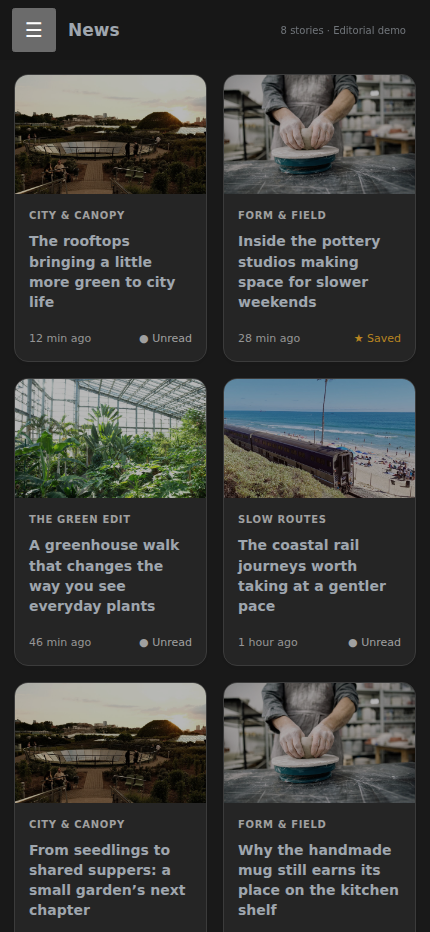
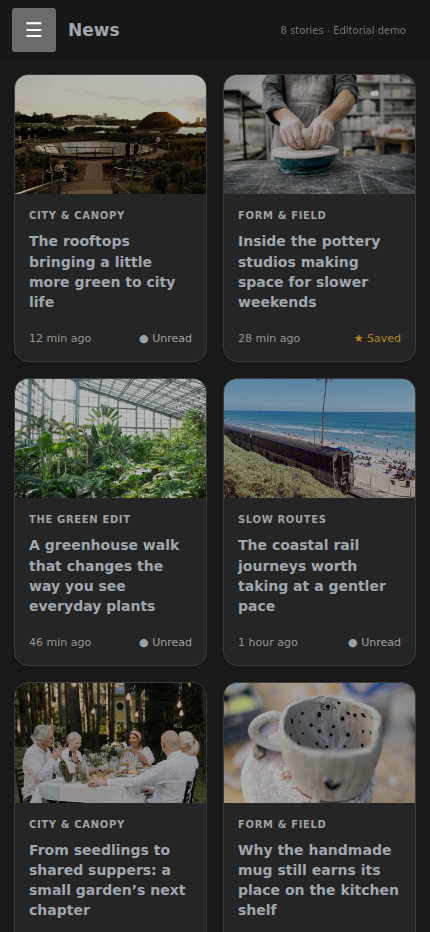
Give all eight demo cards distinct credited photos

Changed region(s): [[0.514, 0.7157, 0.9674, 0.8712], [0.0302, 0.7157, 0.4837, 0.8712]]

diff --git a/tests/browser.py b/tests/browser.py
@@ -428,9 +428,10 @@ try:
                 break
             time.sleep(.05)
         check("document.querySelectorAll('.ig-card').length===8", 'editorial demo uses eight fictional stories')
+        check("new Set([...document.querySelectorAll('.ig-media img')].map(img=>img.src)).size===8", 'each editorial card uses a different photo')
         evaluate("Promise.all([...document.images].map(img=>{img.loading='eager';return img.decode().catch(()=>{});})).then(()=>document.fonts.ready)")
-        check("[...document.querySelectorAll('.ig-media img')].every(img=>img.complete && img.naturalWidth>=1280)", 'four local licensed photos load at full demo resolution')
-        for width, height, filename in [(1440,1000,'desktop-grid.png'), (390,844,'mobile-grid.png'), (430,932,'mobile-grid-wide.png')]:
+        check("[...document.querySelectorAll('.ig-media img')].every(img=>img.complete && img.naturalWidth>=1280)", 'eight local licensed photos load at full demo resolution')
+        for width, height, filename in [(1440,1000,'desktop-eight-photos.png'), (390,844,'mobile-grid.png'), (430,932,'mobile-grid-wide.png')]:
             command('Emulation.setDeviceMetricsOverride', {'width': width, 'height': height, 'deviceScaleFactor': 1, 'mobile': width < 600})
             evaluate('window.scrollTo(0,0)')
             settle()

diff --git a/docs/demo/README.md b/docs/demo/README.md
@@ -2,7 +2,7 @@
 
 All headlines, publication names and article copy in `articles.json` are fictional. Photos are illustrative stock imagery, not evidence of the events described. No personal feeds, accounts or provider calls are involved, and no endorsement is implied.
 
-The demo uses the actual extension CSS/JavaScript and installed FreshRSS core handlers, with local mock state responses. Four bundled photos are reused across eight articles. Everything is served on localhost when generating screenshots; no image hotlinking is needed.
+The demo uses the actual extension CSS/JavaScript and installed FreshRSS core handlers, with local mock state responses. Eight bundled photos give each article its own image. Everything is served on localhost when generating screenshots; no image hotlinking is needed.
 
 ## Photo credits and licence
 
@@ -14,6 +14,10 @@ The following photos remain under the [Pexels licence](https://www.pexels.com/li
 | `images/pottery-workshop.jpg` | Yan Krukau | [Hands of a potter working with clay](https://www.pexels.com/photo/hands-of-a-potter-working-with-clay-6611351/) |
 | `images/greenhouse.jpg` | Ryutaro Tsukata | [Plants in a glass greenhouse](https://www.pexels.com/photo/green-plants-growing-in-modern-glass-greenhouse-5472387/) |
 | `images/coastal-railway.jpg` | Lindsey Garrett | [Train beside the beach](https://www.pexels.com/photo/a-moving-train-on-track-beside-the-beach-13993407/) |
+| `images/shared-supper.jpg` | cottonbro studio | [People enjoying an outdoor dinner](https://www.pexels.com/photo/people-sitting-at-the-table-5961887/) |
+| `images/handmade-mug.jpg` | Esma Atak | [White painted handmade mug](https://www.pexels.com/photo/white-painted-handmade-mug-18688172/) |
+| `images/window-plant.jpg` | cottonbro studio | [A plant beside an open window](https://www.pexels.com/photo/a-plant-placed-on-the-window-10254323/) |
+| `images/coastal-boardwalk.jpg` | Matt Webster | [Coastal boardwalk and ocean outlook](https://www.pexels.com/photo/coastal-boardwalk-view-with-scenic-ocean-outlook-37262992/) |
 
 Licence checked on 17 October 2026. Pexels permits free use and modification; its restrictions still apply. These assets support the interface demo and are not offered as a stock-photo collection.
 

diff --git a/README.md b/README.md
@@ -2,7 +2,7 @@
 
 A standalone FreshRSS extension that turns **Normal view** into an image-card grid with a focused article reader. Inspired by Inoreader, built with vanilla JavaScript and CSS, and tested against **FreshRSS 1.30.1**.
 
-![Desktop grid with fictional articles and illustrative stock photos](docs/screenshots/desktop-grid.png)
+![Desktop grid with fictional articles and illustrative stock photos](docs/screenshots/desktop-eight-photos.png)
 
 ## Features
 
@@ -20,7 +20,7 @@ A standalone FreshRSS extension that turns **Normal view** into an image-card gr
 
 <img src="docs/screenshots/mobile-grid.png" alt="Mobile card list at 390 pixels wide" width="260"> <img src="docs/screenshots/mobile-grid-wide.png" alt="Two-column mobile card list at 430 pixels wide" width="286"> <img src="docs/screenshots/mobile-reader.png" alt="Full-screen mobile article reader" width="260">
 
-Mobile card lists at two widths, followed by the article reader. Screenshots use fictional articles and four illustrative stock photos. See [photo credits and demo details](docs/demo/README.md). No personal feeds or account data are shown.
+Mobile card lists at two widths, followed by the article reader. Screenshots use fictional articles and eight illustrative stock photos. See [photo credits and demo details](docs/demo/README.md). No personal feeds or account data are shown.
 
 ## Requirements
 
